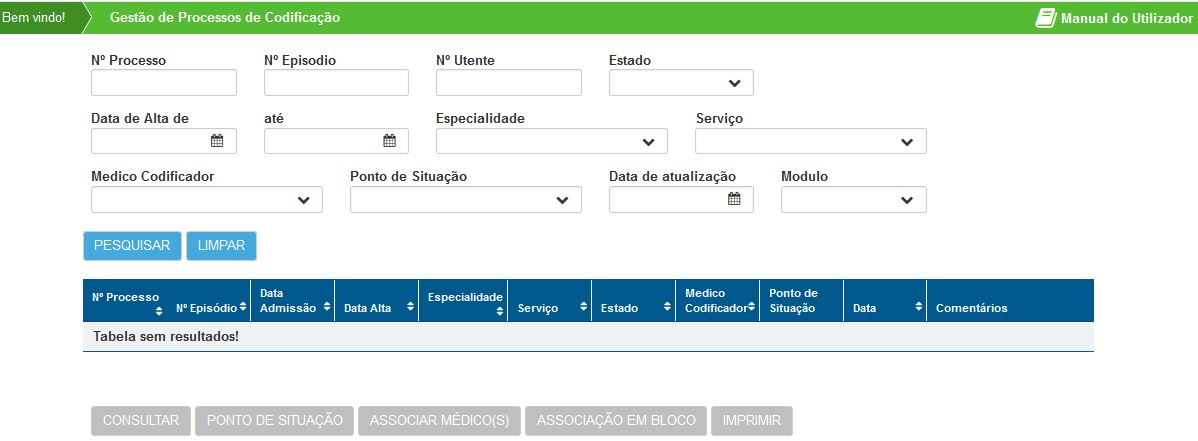
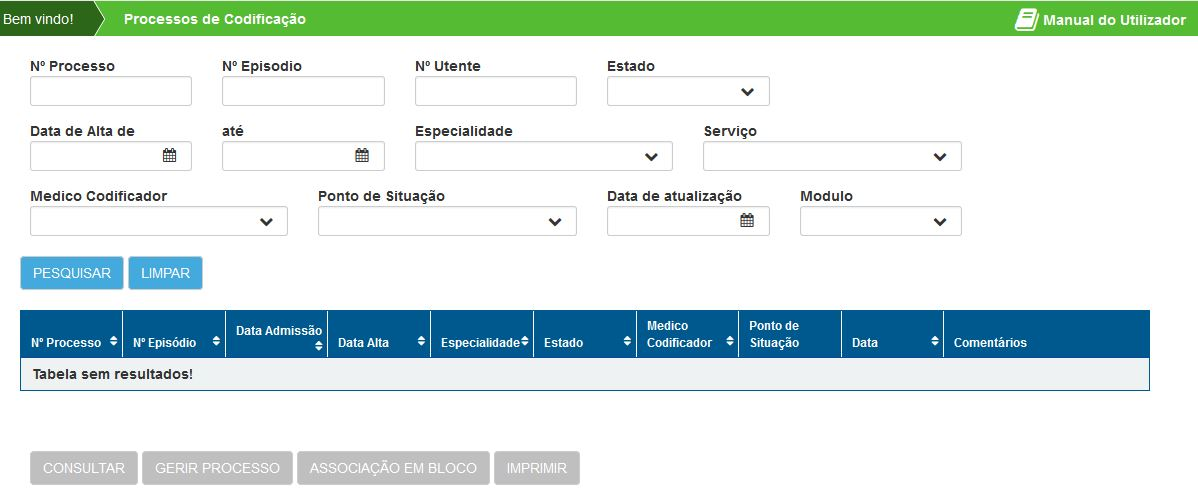
Actualização

diff --git a/SIMH_Manual_Utilizador/Indice.html b/SIMH_Manual_Utilizador/Indice.html
@@ -102,10 +102,7 @@
 							<a href="#gestaoProcessosCod">10 - Gestão de Processos de Codificação</a>
 						</li>
 						<li>
-							<a href="#criarGestaoProcessosCod">10.1 - Associar Pontos de Situação a um Processo de Codificação</a>
-						</li>
-						<li>
-							<a href="#editarGestaoProcessosCod">10.2 - Associar Médicos a um Processo de Codificação</a>
+							<a href="#criarGestaoProcessosCod">10.1 - Gerir Processo</a>
 						</li>
 						<li>
 							<a href="#consultarGestaoProcessosCod">10.3 - Associação em Bloco</a>
